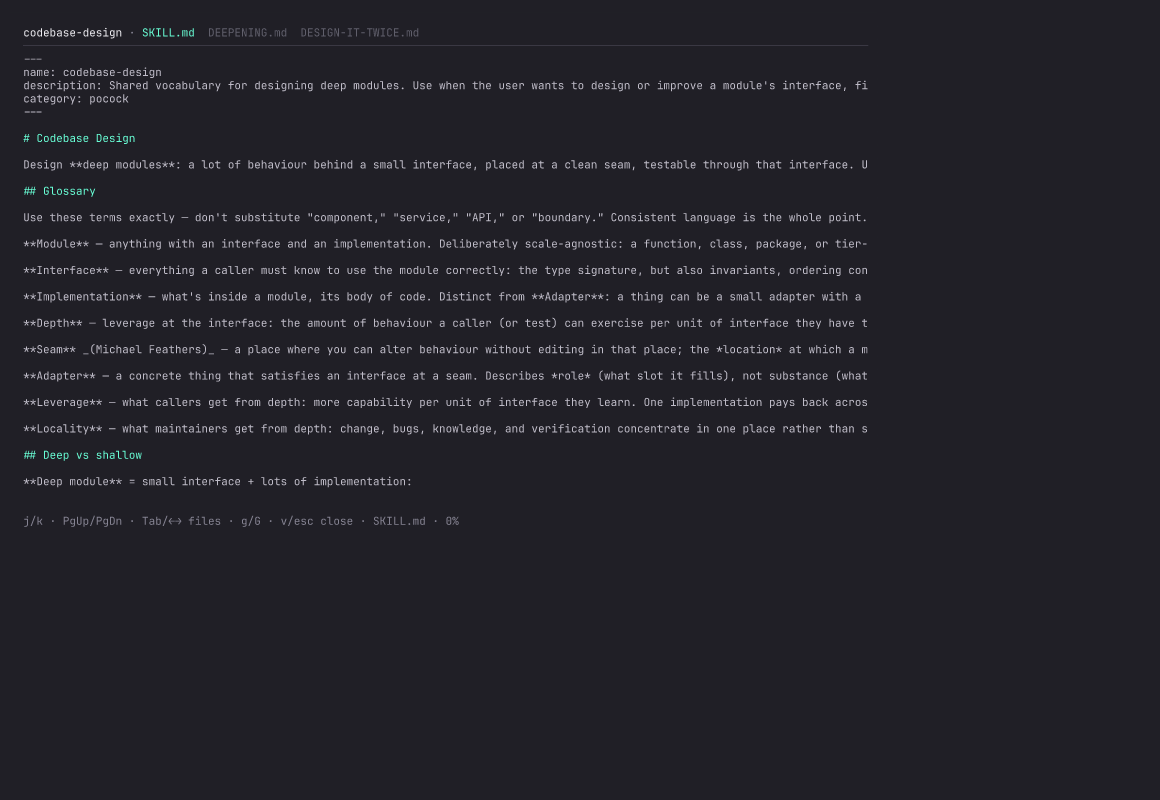
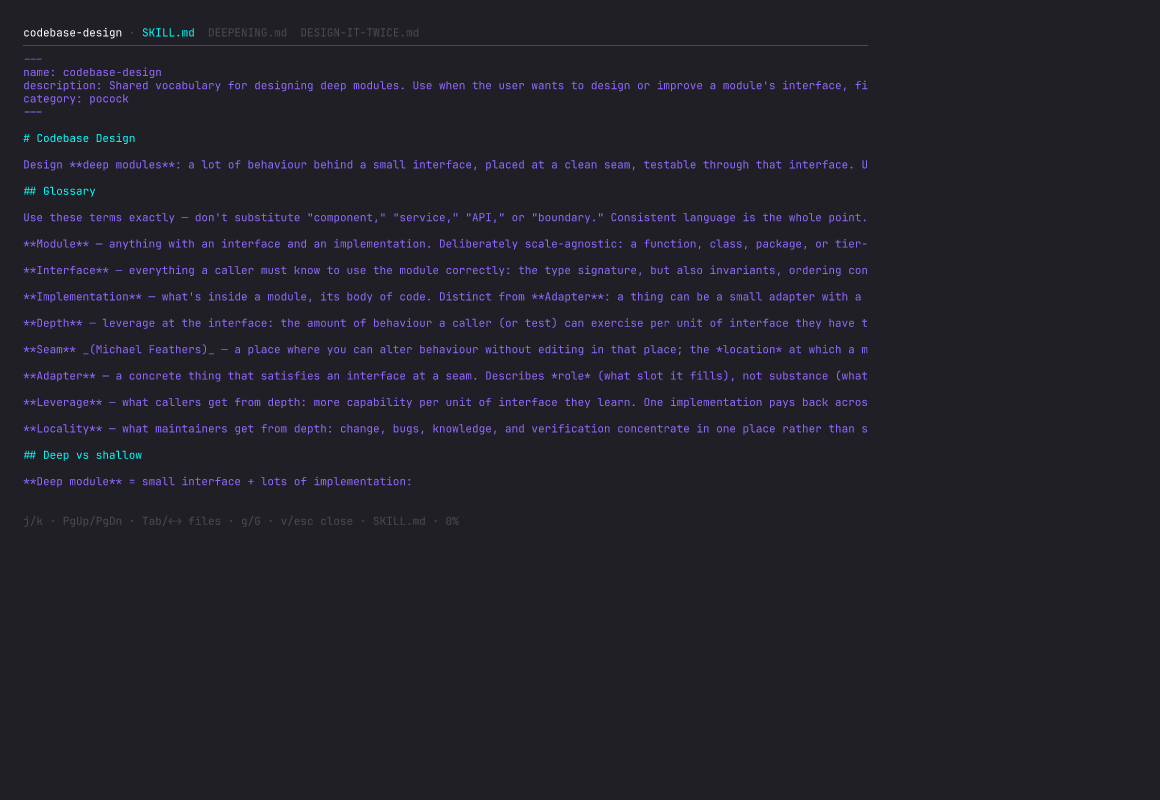
Expose full history and complete Skills discovery

diff --git a/skills/load.go b/skills/load.go
@@ -14,6 +14,7 @@ import (
 	"path/filepath"
 	"sort"
 	"strings"
+	"sync"
 	"time"
 
 	_ "modernc.org/sqlite"
@@ -51,6 +52,20 @@ func Load() (Snapshot, error) {
 	}
 	markDrift(scanned)
 	return Snapshot{Skills: visibleSkills(scanned), Warnings: warnings, Source: "filesystem scan"}, nil
+}
+
+// Scan performs a fresh read-only full-home discovery, bypassing the rebuildable cache.
+func Scan() (Snapshot, error) {
+	home, err := os.UserHomeDir()
+	if err != nil {
+		return Snapshot{}, fmt.Errorf("resolve home directory: %w", err)
+	}
+	scanned, err := scanMachine(home)
+	if err != nil {
+		return Snapshot{}, err
+	}
+	markDrift(scanned)
+	return Snapshot{Skills: visibleSkills(scanned), Source: "filesystem scan"}, nil
 }
 
 func loadCache(path string, home string) ([]Skill, error) {
@@ -179,39 +194,50 @@ func loadTagsAndCategories(db *sql.DB, skills []Skill) {
 	}
 }
 
-func scanMachine(home string) ([]Skill, error) {
-	ctx, cancel := context.WithTimeout(context.Background(), 30*time.Second)
-	defer cancel()
-	roots := []string{
-		filepath.Join(home, ".claude", "skills"),
-		filepath.Join(home, ".claude", "plugins", "cache"),
-		filepath.Join(home, ".agents", "skills"),
-		filepath.Join(home, ".codex"),
-		filepath.Join(home, ".grok"),
-		filepath.Join(home, ".hermes"),
-		filepath.Join(home, ".cursor"),
-		filepath.Join(home, ".gemini"),
-		filepath.Join(home, ".vscode", "extensions"),
-		filepath.Join(home, "Downloads"),
-		filepath.Join(home, "Documents", "milad-vault", "ClaudeConfig", "skills"),
-		filepath.Join(home, "Documents", "milad-vault", "Workspaces"),
-		filepath.Join(home, "Programming", "Repos"),
+func skillScanRoots(home string) ([]string, error) {
+	entries, err := os.ReadDir(home)
+	if err != nil {
+		return nil, fmt.Errorf("read home for skill scan: %w", err)
 	}
-	args := make([]string, 0, len(roots)+24)
-	for _, root := range roots {
-		if info, statErr := os.Stat(root); statErr == nil && info.IsDir() {
-			args = append(args, root)
+	roots := make([]string, 0, len(entries))
+	for _, entry := range entries {
+		if !entry.IsDir() || entry.Name() == "Library" || entry.Name() == ".Trash" {
+			continue
 		}
+		roots = append(roots, filepath.Join(home, entry.Name()))
 	}
-	if len(args) == 0 {
+	if len(roots) == 0 {
 		return nil, errors.New("no skill registry roots exist")
 	}
-	args = append(args,
+	priority := map[string]int{
+		"Documents": 0, "Programming": 1, "Downloads": 2, ".claude": 3,
+		".bun": 4, ".hermes": 5, ".cursor": 6, ".grok": 7,
+	}
+	sort.Slice(roots, func(i int, j int) bool {
+		leftName, rightName := filepath.Base(roots[i]), filepath.Base(roots[j])
+		left, leftKnown := priority[leftName]
+		right, rightKnown := priority[rightName]
+		if leftKnown != rightKnown {
+			return leftKnown
+		}
+		if leftKnown && left != right {
+			return left < right
+		}
+		return roots[i] < roots[j]
+	})
+	return roots, nil
+}
+
+func skillFindArgs(root string) []string {
+	return []string{
+		root,
 		"-maxdepth", "9",
 		"(",
 		"-path", "*/node_modules", "-o",
 		"-path", "*/.git", "-o",
 		"-path", "*/.archive", "-o",
+		"-path", "*/Library", "-o",
+		"-path", "*/.Trash", "-o",
 		"-path", "*/.claude/worktrees", "-o",
 		"-path", "*/.milad-vault-worktrees", "-o",
 		"-path", "*/.claude/plugins/marketplaces", "-o",
@@ -222,13 +248,61 @@ func scanMachine(home string) ([]Skill, error) {
 		"-path", "*/.hermes/hermes-agent/optional-skills",
 		")", "-prune", "-o",
 		"-name", "SKILL.md", "-print",
-	)
-	output, err := exec.CommandContext(ctx, "find", args...).Output()
-	if err != nil && len(output) == 0 {
-		return nil, fmt.Errorf("scan machine for skills: %w", err)
+	}
+}
+
+func isRegularFile(path string) bool {
+	info, err := os.Stat(path)
+	return err == nil && info.Mode().IsRegular()
+}
+
+func scanMachine(home string) ([]Skill, error) {
+	roots, err := skillScanRoots(home)
+	if err != nil {
+		return nil, err
+	}
+	ctx, cancel := context.WithTimeout(context.Background(), 30*time.Second)
+	defer cancel()
+	type scanResult struct {
+		output []byte
+		err    error
+	}
+	results := make(chan scanResult, len(roots))
+	semaphore := make(chan struct{}, 8)
+	var wait sync.WaitGroup
+	for _, root := range roots {
+		root := root
+		wait.Add(1)
+		go func() {
+			defer wait.Done()
+			semaphore <- struct{}{}
+			defer func() { <-semaphore }()
+			output, scanErr := exec.CommandContext(ctx, "find", skillFindArgs(root)...).Output()
+			results <- scanResult{output: output, err: scanErr}
+		}()
+	}
+	wait.Wait()
+	close(results)
+	outputs := make([]byte, 0, 256*1024)
+	var firstErr error
+	for result := range results {
+		outputs = append(outputs, result.output...)
+		if len(result.output) > 0 && result.output[len(result.output)-1] != '\n' {
+			outputs = append(outputs, '\n')
+		}
+		if result.err != nil && firstErr == nil {
+			firstErr = result.err
+		}
+	}
+	if len(outputs) == 0 && firstErr != nil {
+		return nil, fmt.Errorf("scan machine for skills: %w", firstErr)
+	}
+	if direct := filepath.Join(home, "SKILL.md"); isRegularFile(direct) {
+		outputs = append(outputs, direct...)
+		outputs = append(outputs, '\n')
 	}
 	byReal := make(map[string]*Skill)
-	for _, line := range strings.Split(string(output), "\n") {
+	for _, line := range strings.Split(string(outputs), "\n") {
 		if !strings.HasSuffix(line, string(filepath.Separator)+"SKILL.md") {
 			continue
 		}

diff --git a/transcript/reader.go b/transcript/reader.go
@@ -64,12 +64,25 @@ type block struct {
 // Read streams a JSONL transcript and retains the most recent maxMessages rendered turns.
 // A zero/negative limit uses 2,000 turns. Corrupt records are skipped.
 func Read(path string, maxMessages int) (Document, error) {
+	if maxMessages <= 0 {
+		maxMessages = 2000
+	}
 	file, err := os.Open(path)
 	if err != nil {
 		return Document{}, fmt.Errorf("open transcript: %w", err)
 	}
 	defer file.Close()
 	return scanDocument(file, maxMessages, false)
+}
+
+// ReadAll streams and normalizes the entire transcript for the explicit full reader.
+func ReadAll(path string) (Document, error) {
+	file, err := os.Open(path)
+	if err != nil {
+		return Document{}, fmt.Errorf("open transcript: %w", err)
+	}
+	defer file.Close()
+	return scanDocument(file, 0, false)
 }
 
 // ReadRecent reads only the byte tail before normalizing the most recent turns. It is used for
@@ -132,10 +145,11 @@ func RecentText(path string, maxMessages int, maxChars int) (string, error) {
 }
 
 func scanDocument(file *os.File, maxMessages int, discardFirstPartial bool) (Document, error) {
-	if maxMessages <= 0 {
-		maxMessages = 2000
+	capacity := 256
+	if maxMessages > 0 {
+		capacity = min(maxMessages, capacity)
 	}
-	turns := make([][]Line, 0, min(maxMessages, 256))
+	turns := make([][]Line, 0, capacity)
 	truncated := discardFirstPartial
 	format := "unknown"
 	scanner := bufio.NewScanner(file)
@@ -157,7 +171,7 @@ func scanDocument(file *os.File, maxMessages int, discardFirstPartial bool) (Doc
 		} else if observedFormat != "" && format != observedFormat {
 			format = "mixed"
 		}
-		if len(turns) == maxMessages {
+		if maxMessages > 0 && len(turns) == maxMessages {
 			copy(turns, turns[1:])
 			turns[len(turns)-1] = lines
 			truncated = true

diff --git a/ui/model_test.go b/ui/model_test.go
@@ -158,13 +158,32 @@ func TestTranscriptPeekDeduplicatesTailLoadAndFullReaderLoadsSeparately(t *testi
 		t.Fatal("reader reused the bounded peek instead of loading the full transcript")
 	}
 	fullMsg, ok := fullCmd().(transcriptLoadedMsg)
-	if !ok || !fullMsg.full || fullMsg.err != nil {
+	if !ok || !fullMsg.full || fullMsg.err != nil || fullMsg.document.Truncated {
 		t.Fatalf("full message = %+v", fullMsg)
 	}
 	updated, _ = model.Update(fullMsg)
 	model = updated.(Model)
 	if model.reader == nil || len(model.reader.visual) == 0 {
 		t.Fatal("full transcript reader did not precompute visual rows")
+	}
+}
+
+func TestSkillRescanCommandBypassesCacheLoader(t *testing.T) {
+	home := t.TempDir()
+	t.Setenv("HOME", home)
+	path := filepath.Join(home, "Documents", "custom", "skills", "fresh", "SKILL.md")
+	if err := os.MkdirAll(filepath.Dir(path), 0o755); err != nil {
+		t.Fatal(err)
+	}
+	if err := os.WriteFile(path, []byte("---\nname: fresh\n---\n"), 0o600); err != nil {
+		t.Fatal(err)
+	}
+	message, ok := scanSkillsCmd()().(skillsLoadedMsg)
+	if !ok || message.err != nil {
+		t.Fatalf("rescan message = %+v", message)
+	}
+	if message.snapshot.Source != "filesystem scan" || len(message.snapshot.Skills) != 1 || message.snapshot.Skills[0].Name != "fresh" {
+		t.Fatalf("rescan snapshot = %+v", message.snapshot)
 	}
 }
 

diff --git a/skills/load_test.go b/skills/load_test.go
@@ -24,6 +24,36 @@ func TestClassifyAndHome(t *testing.T) {
 	}
 }
 
+func TestScanMachineDiscoversSkillsAcrossHome(t *testing.T) {
+	home := t.TempDir()
+	paths := []string{
+		filepath.Join(home, "Documents", "scout-core", "skills", "todoist-scout", "SKILL.md"),
+		filepath.Join(home, "Documents", "vault", ".claude", "skills", "wiki-session-startup", "SKILL.md"),
+	}
+	for _, path := range paths {
+		if err := os.MkdirAll(filepath.Dir(path), 0o755); err != nil {
+			t.Fatal(err)
+		}
+		if err := os.WriteFile(path, []byte("---\nname: "+filepath.Base(filepath.Dir(path))+"\n---\n"), 0o600); err != nil {
+			t.Fatal(err)
+		}
+	}
+	ignored := filepath.Join(home, "Library", "hidden", "SKILL.md")
+	if err := os.MkdirAll(filepath.Dir(ignored), 0o755); err != nil {
+		t.Fatal(err)
+	}
+	if err := os.WriteFile(ignored, []byte("# ignored"), 0o600); err != nil {
+		t.Fatal(err)
+	}
+	scanned, err := scanMachine(home)
+	if err != nil {
+		t.Fatal(err)
+	}
+	if len(scanned) != 2 {
+		t.Fatalf("scanned = %+v", scanned)
+	}
+}
+
 func TestVisibleSkillsKeepsAllInstalledEcosystems(t *testing.T) {
 	registry := []Skill{
 		{Name: "claude", Path: "/skills/claude", RealPath: "/skills/claude", Ecosystem: "claude-user", Hash: "a"},

diff --git a/ui/model.go b/ui/model.go
@@ -511,7 +511,7 @@ func loadTranscriptCmd(session data.Session, full bool) tea.Cmd {
 		var document transcript.Document
 		var err error
 		if full {
-			document, err = transcript.Read(session.Path, 2000)
+			document, err = transcript.ReadAll(session.Path)
 		} else {
 			document, err = transcript.ReadRecent(session.Path, 200, 512*1024)
 		}
@@ -527,7 +527,7 @@ func (m *Model) cachePeekTranscript(sessionID string, document transcript.Docume
 }
 
 func (m *Model) cacheFullTranscript(sessionID string, document transcript.Document) {
-	if _, exists := m.fullTranscripts[sessionID]; !exists && len(m.fullTranscripts) >= 8 {
+	if _, exists := m.fullTranscripts[sessionID]; !exists && len(m.fullTranscripts) >= 2 {
 		m.evictOldestTranscript(m.fullTranscripts, sessionID, false)
 	}
 	m.fullTranscripts[sessionID] = document

diff --git a/transcript/reader_test.go b/transcript/reader_test.go
@@ -61,6 +61,25 @@ func TestReadSupportsOpenAIResponsesEvents(t *testing.T) {
 	}
 }
 
+func TestReadAllRetainsEveryTurn(t *testing.T) {
+	path := writeTranscript(t,
+		`{"type":"user","message":{"content":"one"}}`,
+		`{"type":"assistant","message":{"content":"two"}}`,
+		`{"type":"user","message":{"content":"three"}}`,
+	)
+	document, err := ReadAll(path)
+	if err != nil {
+		t.Fatal(err)
+	}
+	joined := ""
+	for _, line := range document.Lines {
+		joined += line.Text
+	}
+	if document.Truncated || !strings.Contains(joined, "one") || !strings.Contains(joined, "two") || !strings.Contains(joined, "three") {
+		t.Fatalf("unexpected full document: %+v", document)
+	}
+}
+
 func TestReadRetainsRecentBoundedTurns(t *testing.T) {
 	path := writeTranscript(t,
 		`{"type":"user","message":{"content":"one"}}`,

diff --git a/ui/skills.go b/ui/skills.go
@@ -49,6 +49,13 @@ func loadSkillsCmd() tea.Cmd {
 	}
 }
 
+func scanSkillsCmd() tea.Cmd {
+	return func() tea.Msg {
+		snapshot, err := skills.Scan()
+		return skillsLoadedMsg{snapshot: snapshot, err: err}
+	}
+}
+
 func (m Model) handleSkillKey(message tea.KeyMsg) (tea.Model, tea.Cmd) {
 	if m.overlay == OverlayHelp {
 		switch message.String() {
@@ -131,7 +138,7 @@ func (m Model) handleSkillKey(message tea.KeyMsg) (tea.Model, tea.Cmd) {
 	case "R":
 		m.skillLoading = true
 		m.skillError = ""
-		return m, loadSkillsCmd()
+		return m, scanSkillsCmd()
 	case "?":
 		m.overlay = OverlayHelp
 	}

diff --git a/ui/shot.go b/ui/shot.go
@@ -35,7 +35,7 @@ func Shot(name string, snapshot data.Snapshot) string {
 		})
 		loadShotTranscript(&model)
 		if session, ok := model.selectedSession(); ok {
-			if document, err := transcript.Read(session.Path, 2000); err == nil {
+			if document, err := transcript.ReadAll(session.Path); err == nil {
 				model.cacheFullTranscript(session.ID, document)
 				model.openTranscriptDocument(session, document)
 				model.reader.scroll = max(0, len(model.reader.visual)-max(1, model.h-6))

diff --git a/README.md b/README.md
@@ -87,7 +87,7 @@ The shared `transcript/` reader streams or tail-reads JSONL, skips corrupt recor
 - direct gateway `role` / `content` records;
 - OpenAI Responses-style `response.output_text` and output-item records.
 
-The dossier peek byte-tail-reads at most 512 KiB and caches a bounded set of sessions with in-flight load deduplication; live-session peeks refresh after a short interval. Opening `v` separately streams the full file while retaining the most recent 2,000 rendered turns. Visual wrapping is precomputed for responsive paging, and a truncated document is labeled as a recent tail. Fleet-wide AI calls use byte-bounded transcript tails plus CCS’s indexed opening/closing skeleton, avoiding full rescans of hundreds of large files.
+The dossier peek byte-tail-reads at most 512 KiB and caches a bounded set of sessions with in-flight load deduplication; live-session peeks refresh after a short interval. Opening `v` separately streams and retains the entire normalized transcript, including histories longer than 2,000 records. Visual wrapping is precomputed for responsive paging; only genuinely byte-tailed documents are labeled as a recent tail. Fleet-wide AI calls use byte-bounded transcript tails plus CCS’s indexed opening/closing skeleton, avoiding full rescans of hundreds of large files.
 
 ## Resume contract
 
@@ -132,7 +132,7 @@ The same seam powers `e`, `S`, ask-the-fleet, and cleanup. Ask-the-fleet ranks e
 
 ## Skills mode
 
-`Tab` opens a separate machine-wide Skills registry. It reads `~/.ccs/cache/skills.db` in SQLite `mode=ro` when populated. If the rebuildable cache is empty or on an older schema, it scans installed/global skills, plugin cache, the canonical vault registry, vault workspaces, and programming repositories without writing a cache. Claude, Codex, Grok, Hermes, Cursor, IDE, agents, archive, and other discovered ecosystems remain visible; only marketplace catalogue listings, linked-worktree copies, and exact-content shadow duplicates are hidden.
+`Tab` opens a separate machine-wide Skills registry. It reads `~/.ccs/cache/skills.db` in SQLite `mode=ro` when populated. If the rebuildable cache is empty or on an older schema, it performs a parallel, pruned full-home scan without writing a cache; `R` always forces that fresh filesystem scan instead of reloading a populated cache. Claude, Codex, Grok, Hermes, Cursor, IDE, agents, archive, download, project, and other discovered ecosystems remain visible; only marketplace catalogue listings, linked-worktree copies, and exact-content shadow duplicates are hidden.
 
 Skills keys:
 
